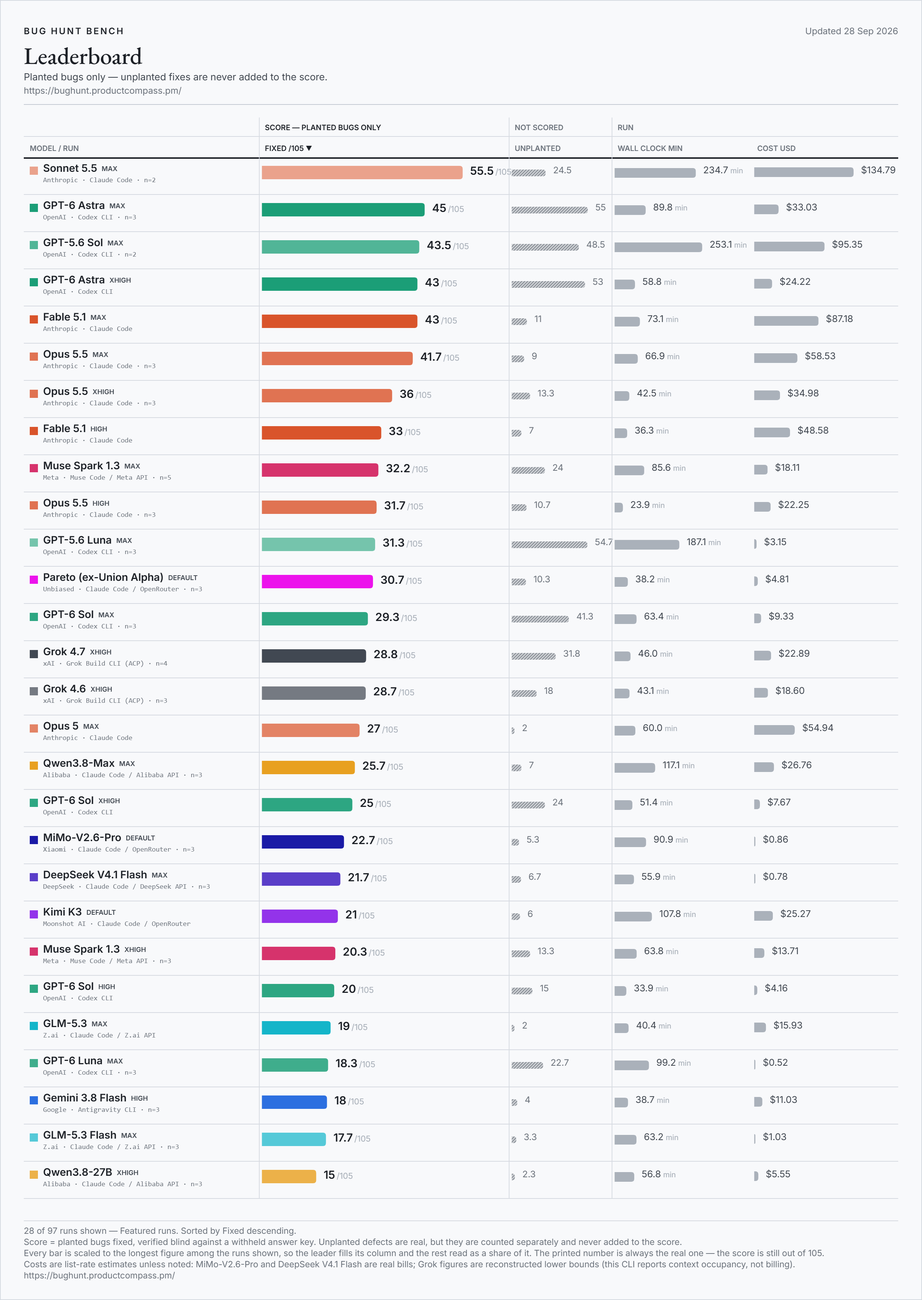
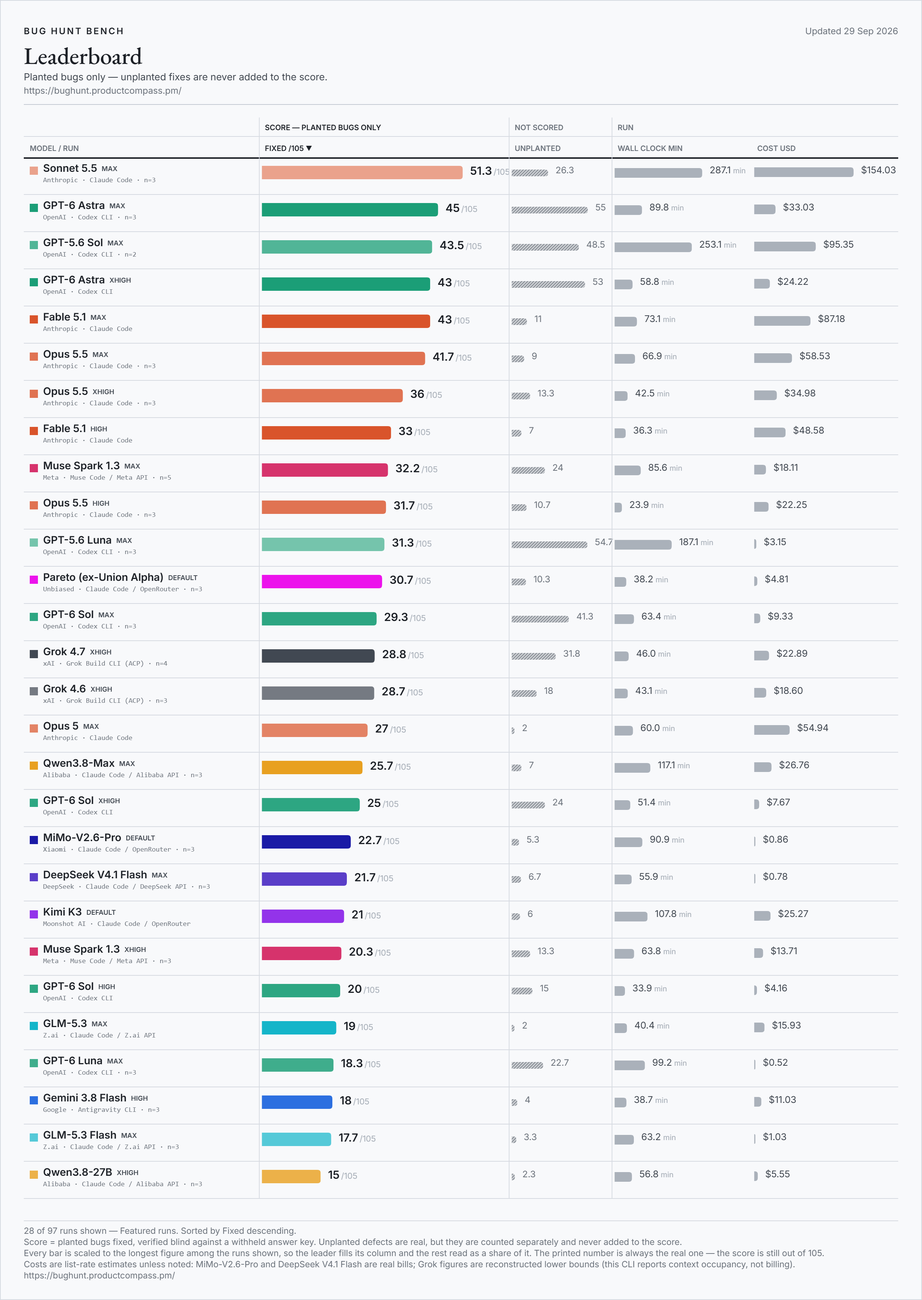
bug hunt bench: Sonnet 5.5 (max effort) - mean of 3 (51.3/105)

diff --git a/index.html b/index.html
@@ -22,14 +22,14 @@
 <meta property="og:title" content="Bug Hunt Bench — frontier coding models against real planted bugs">
 <meta property="og:description" content="A blind-graded benchmark of frontier coding models on real bugs planted in two production codebases. The score counts planted bugs only; extra fixes are tracked separately and never added.">
 <meta property="og:url" content="https://bughunt.productcompass.pm/">
-<meta property="og:image" content="https://bughunt.productcompass.pm/og-image.png?v=2026-09-28-c92c4c04">
+<meta property="og:image" content="https://bughunt.productcompass.pm/og-image.png?v=2026-09-29-27e06eb1">
 <meta property="og:image:width" content="1200">
 <meta property="og:image:height" content="630">
 <meta property="og:image:alt" content="Bug Hunt Bench leaderboard">
 <meta name="twitter:card" content="summary_large_image">
 <meta name="twitter:title" content="Bug Hunt Bench — frontier coding models against real planted bugs">
 <meta name="twitter:description" content="A blind-graded benchmark of frontier coding models on real bugs planted in two production codebases. The score counts planted bugs only.">
-<meta name="twitter:image" content="https://bughunt.productcompass.pm/og-image.png?v=2026-09-28-c92c4c04">
+<meta name="twitter:image" content="https://bughunt.productcompass.pm/og-image.png?v=2026-09-29-27e06eb1">
 <meta name="twitter:creator" content="@PawelHuryn">
 
 <link rel="icon" href="/assets/favicon.svg" type="image/svg+xml">

diff --git a/method.html b/method.html
@@ -20,14 +20,14 @@
 <meta property="og:title" content="Method, caveats and definitions — Bug Hunt Bench">
 <meta property="og:description" content="How Bug Hunt Bench is run and graded, what the board cannot tell you, and what every column on it means.">
 <meta property="og:url" content="https://bughunt.productcompass.pm/method">
-<meta property="og:image" content="https://bughunt.productcompass.pm/og-image.png?v=2026-09-28-c92c4c04">
+<meta property="og:image" content="https://bughunt.productcompass.pm/og-image.png?v=2026-09-29-27e06eb1">
 <meta property="og:image:width" content="1200">
 <meta property="og:image:height" content="630">
 <meta property="og:image:alt" content="Bug Hunt Bench leaderboard">
 <meta name="twitter:card" content="summary_large_image">
 <meta name="twitter:title" content="Method, caveats and definitions — Bug Hunt Bench">
 <meta name="twitter:description" content="How Bug Hunt Bench is run and graded, what the board cannot tell you, and what every column on it means.">
-<meta name="twitter:image" content="https://bughunt.productcompass.pm/og-image.png?v=2026-09-28-c92c4c04">
+<meta name="twitter:image" content="https://bughunt.productcompass.pm/og-image.png?v=2026-09-29-27e06eb1">
 <meta name="twitter:creator" content="@PawelHuryn">
 
 <link rel="icon" href="/assets/favicon.svg" type="image/svg+xml">

diff --git a/results/run-notes.md b/results/run-notes.md
@@ -2,15 +2,15 @@
 
 Every row on the board, with the note and caveat it carries. Generated from `data/benchmark.json` by `bench_golive.py` - do not edit by hand.
 
-Updated Sep 28, 2026 · 149 rows from 227 scored runs. Superseded rows are listed last.
+Updated Sep 29, 2026 · 150 rows from 230 scored runs. Superseded rows are listed last.
 
-## Sonnet 5.5 (max effort) - mean of 2
+## Sonnet 5.5 (max effort) - mean of 3
 
-**55.5 / 105** · repo 1 22.5/45 · repo 2 33/60 · 24.5 unplanted · 234.7 min · $134.79 · `max` · Claude Code · mean of 2 runs · 2026-09-28
+**51.3 / 105** · repo 1 22.7/45 · repo 2 28.7/60 · 26.3 unplanted · 287.1 min · $154.03 · `max` · Claude Code · mean of 3 runs · 2026-09-29
 
-**Caveat.** Two runs of an identical configuration scoring 57 and 54 of 105 - spread 3. Read the mean with that width, and note that two runs bound variance poorly - the third is still to come. Both Sonnet 5 rows here compacted mid-task on older CLI builds, so the gap against them is not a clean version comparison. Cost is a list-rate estimate at Sonnet 5.5's published rates; the harness priced this model on another model's table, so the check is on token counts, not on its dollar figure. The machine was idle for every leg.
+**Caveat.** Three runs of an identical configuration scoring 57, 54 and 43 of 105 - spread 14. Read the mean with that width. Both Sonnet 5 rows here compacted mid-task on older CLI builds, so the gap against them is not a clean version comparison. Cost is a list-rate estimate at Sonnet 5.5's published rates; the harness priced this model on another model's table, so the check is on token counts, not on its dollar figure. The machine was idle for every leg.
 
-Anthropic's Sonnet 5.5 at max effort through Claude Code on the first-party API, published as the MEAN OF TWO INDEPENDENT RUNS. Runs scored 57 and 54 of 105 (repo 1: 24, 21 - repo 2: 33, 33). Mean 55.5, range 3. *** THIS SUPERSEDES SONNET 5.5 (MAX EFFORT) (57 OF 105) *** *** THE REPLICATES ARE BYTE-IDENTICAL TO THE FIRST RUN *** same model string, effort, timeout, price table and blind judge; only the arm name differs, so the spread is run-to-run variance. For comparison the board currently publishes Sonnet 5 at max effort 9, Sonnet 5 at high effort 9, Opus 5.5 at max effort 41.7 (mean of 3) of 105. *** WALL AND COST *** walls 257.8, 211.7 minutes, mean 234.8; cost $154.05, $115.55, mean $134.80. *** GENUINE EXTRAS *** 28 and 21 across the runs, mean 24.5, never folded into the score. *** IT KEEPS WORKING AFTER IT WRITES ITS REPORT *** On repo 1 it took 915, 539 turns (the harness's own count); it first wrote its report 66, 58 minutes in and its last model call came at minute 196, 113 - 129, 55 minutes of further checking and revising after the report existed. For scale: Opus 5.5 at max took 159-201 turns there over three runs of 26-37 minutes; Sonnet 5 at max took 207, and every one of those runs wrote its report within 1 minute of its last call. On repo 2 it took 651, 554 turns (the harness's own count); it first wrote its report 57, 49 minutes in and its last model call came at minute 62, 98 - 5, 49 minutes of further checking and revising after the report existed. For scale: Opus 5.5 at max took 264-317 turns there over three runs of 34-39 minutes; Sonnet 5 at max took 204, and every one of those runs wrote its report within 1 minute of its last call. Its own repo-1 report says each fix carries a regression test that it confirmed fails with the fix reverted - a mutation check - which is where the extra turns went. *** SAME MACHINE AS THE OPUS 5.5 LADDER *** configured byte-identical to the opus55* arms except the model slug and the effort flag: Claude Code straight onto Anthropic's first-party API, no proxy, 1M window requested with the [1m] suffix, CLI-default autocompact, same prompt, same timeout class, same blind judge. The two Sonnet 5 rows on this board ran older Claude Code builds (2.1.218, 2.1.267) and compacted mid-task - 5 compactions across their 4 legs, peaks 284,197 to 295,210 tokens - so a gap against them mixes the model version with how much of each run's context survived, and is not a clean version delta. Effort is a first-party Claude Code tier (documented enum low|medium|high|xhigh|max, enforced: an invented tier is answered 'Unknown --effort value'), taken at face value like every other Claude row here. The harness stated init.model claude-sonnet-5-5[1m] on every leg - the [1m] suffix honoured, so this is a 1M-window run - on Claude Code 2.1.283. Peak context 1,003,561 tokens; 5 compactions across 4 legs. Autocompact ran at the CLI default. *** COST IS A LIST ESTIMATE *** token counts at Anthropic's published Sonnet 5.5 rates (as read 2026-09-28): $2 input, $10 output, $0.20 cache read, $4 cache write - the 1-hour rate, which is what this harness writes. The harness's own cost figure is NOT a cross-check on this model: Claude Code reported its cost basis for Sonnet 5.5 as 'unknown' and priced the run on Opus 5.5's table - its figure is exactly those tokens at Opus 5.5 rates, about a fifth higher than Sonnet 5.5's own. So the check here is on tokens: each leg's metered counts agree with the harness's own per-model counts within 3 per cent. Claude Code on a subscription exposes no invoice, hence `list`. *** RECEIPTS *** All legs exited 0 with a report written, run SEQUENTIALLY, one repo at a time. Judge: blind Codex gpt-5.5 - an OpenAI model scoring an Anthropic one, so neither the model itself nor a sibling of it. The repo 2 judge on run 1 returned an empty verdict set once and was re-run - the re-run is the scored result. The machine was otherwise idle for every leg, so the wall figures compare directly against other uncontended rows.
+Anthropic's Sonnet 5.5 at max effort through Claude Code on the first-party API, published as the MEAN OF THREE INDEPENDENT RUNS. Runs scored 57, 54 and 43 of 105 (repo 1: 24, 21, 23 - repo 2: 33, 33, 20). Mean 51.3, range 14. *** THIS SUPERSEDES SONNET 5.5 (MAX EFFORT) - MEAN OF 2 (55.5 OF 105) *** *** THE REPLICATES ARE BYTE-IDENTICAL TO THE FIRST RUN *** same model string, effort, timeout, price table and blind judge; only the arm name differs, so the spread is run-to-run variance. For comparison the board currently publishes Sonnet 5 at max effort 9, Sonnet 5 at high effort 9, Opus 5.5 at max effort 41.7 (mean of 3) of 105. *** WALL AND COST *** walls 257.8, 211.7, 392.0 minutes, mean 287.2; cost $154.05, $115.55, $192.52, mean $154.04. *** GENUINE EXTRAS *** 28, 21 and 30 across the runs, mean 26.3, never folded into the score. *** IT KEEPS WORKING AFTER IT WRITES ITS REPORT *** On repo 1 it took 915, 539, 1145 turns (the harness's own count); it first wrote its report 66, 58, 64 minutes in and its last model call came at minute 196, 113, 332 - 129, 55, 268 minutes of further checking and revising after the report existed. For scale: Opus 5.5 at max took 159-201 turns there over three runs of 26-37 minutes; Sonnet 5 at max took 207, and every one of those runs wrote its report within 1 minute of its last call. On repo 2 it took 651, 554, 688 turns (the harness's own count); it first wrote its report 57, 49, 56 minutes in and its last model call came at minute 62, 98, 60 - 5, 49, 4 minutes of further checking and revising after the report existed. For scale: Opus 5.5 at max took 264-317 turns there over three runs of 34-39 minutes; Sonnet 5 at max took 204, and every one of those runs wrote its report within 1 minute of its last call. Its own repo-1 report says each fix carries a regression test that it confirmed fails with the fix reverted - a mutation check - which is where the extra turns went. *** SAME MACHINE AS THE OPUS 5.5 LADDER *** configured byte-identical to the opus55* arms except the model slug and the effort flag: Claude Code straight onto Anthropic's first-party API, no proxy, 1M window requested with the [1m] suffix, CLI-default autocompact, same prompt, same timeout class, same blind judge. The two Sonnet 5 rows on this board ran older Claude Code builds (2.1.218, 2.1.267) and compacted mid-task - 5 compactions across their 4 legs, peaks 284,197 to 295,210 tokens - so a gap against them mixes the model version with how much of each run's context survived, and is not a clean version delta. Effort is a first-party Claude Code tier (documented enum low|medium|high|xhigh|max, enforced: an invented tier is answered 'Unknown --effort value'), taken at face value like every other Claude row here. The harness stated init.model claude-sonnet-5-5[1m] on every leg - the [1m] suffix honoured, so this is a 1M-window run - on Claude Code 2.1.283. Peak context 1,003,561 tokens; 8 compactions across 6 legs. Autocompact ran at the CLI default. *** COST IS A LIST ESTIMATE *** token counts at Anthropic's published Sonnet 5.5 rates (as read 2026-09-28): $2 input, $10 output, $0.20 cache read, $4 cache write - the 1-hour rate, which is what this harness writes. The harness's own cost figure is NOT a cross-check on this model: Claude Code reported its cost basis for Sonnet 5.5 as 'unknown' and priced the run on Opus 5.5's table - its figure is exactly those tokens at Opus 5.5 rates, about a fifth higher than Sonnet 5.5's own. So the check here is on tokens: each leg's metered counts agree with the harness's own per-model counts within 3 per cent. Claude Code on a subscription exposes no invoice, hence `list`. *** RECEIPTS *** All legs exited 0 with a report written, run SEQUENTIALLY, one repo at a time. Judge: blind Codex gpt-5.5 - an OpenAI model scoring an Anthropic one, so neither the model itself nor a sibling of it. The repo 2 judge on run 1 returned an empty verdict set once and was re-run - the re-run is the scored result. The machine was otherwise idle for every leg, so the wall figures compare directly against other uncontended rows.
 
 ## GPT-6 Astra (max effort) - mean of 3
 
@@ -663,6 +663,16 @@ THE ZERO SURVIVES REPLICATION. Runs scored 0, 0 and 0 of 105 (repo 1: 0, 0, 0 - 
 **Caveat.** ONE RUN, not a mean - this board has measured a 13-point spread between two runs of a single identical configuration, so treat this as one draw until the two replicates land. Both Sonnet 5 rows here compacted mid-task on older CLI builds, so the gap against them is not a clean version comparison. Cost is a list-rate estimate at Sonnet 5.5's published rates; the harness priced this model on another model's table, so the check is on token counts, not on its dollar figure. The machine was idle for every leg.
 
 Anthropic's Sonnet 5.5 at max effort through Claude Code on the first-party API, measured the evening it shipped. 57 of 105: 24 of 45 on repo 1 and 33 of 60 on repo 2, 28 genuine extras, 257.8 minutes, $154.05. ONE RUN so far; two replicates follow and will supersede this row. For comparison the board currently publishes Sonnet 5 at max effort 9, Sonnet 5 at high effort 9, Opus 5.5 at max effort 41.7 (mean of 3) of 105. *** IT KEEPS WORKING AFTER IT WRITES ITS REPORT *** On repo 1 it took 915 turns (the harness's own count); it first wrote its report 66 minutes in and its last model call came at minute 196 - 129 minutes of further checking and revising after the report existed. For scale: Opus 5.5 at max took 159-201 turns there over three runs of 26-37 minutes; Sonnet 5 at max took 207, and every one of those runs wrote its report within 1 minute of its last call. On repo 2 it took 651 turns (the harness's own count); it first wrote its report 57 minutes in and its last model call came at minute 62 - 5 minutes of further checking and revising after the report existed. For scale: Opus 5.5 at max took 264-317 turns there over three runs of 34-39 minutes; Sonnet 5 at max took 204, and every one of those runs wrote its report within 1 minute of its last call. Its own repo-1 report says each fix carries a regression test that it confirmed fails with the fix reverted - a mutation check - which is where the extra turns went. *** SAME MACHINE AS THE OPUS 5.5 LADDER *** configured byte-identical to the opus55* arms except the model slug and the effort flag: Claude Code straight onto Anthropic's first-party API, no proxy, 1M window requested with the [1m] suffix, CLI-default autocompact, same prompt, same timeout class, same blind judge. The two Sonnet 5 rows on this board ran older Claude Code builds (2.1.218, 2.1.267) and compacted mid-task - 5 compactions across their 4 legs, peaks 284,197 to 295,210 tokens - so a gap against them mixes the model version with how much of each run's context survived, and is not a clean version delta. Effort is a first-party Claude Code tier (documented enum low|medium|high|xhigh|max, enforced: an invented tier is answered 'Unknown --effort value'), taken at face value like every other Claude row here. The harness stated init.model claude-sonnet-5-5[1m] on every leg - the [1m] suffix honoured, so this is a 1M-window run - on Claude Code 2.1.283. Peak context 1,001,140 tokens; 3 compactions across 2 legs. Autocompact ran at the CLI default. *** COST IS A LIST ESTIMATE *** token counts at Anthropic's published Sonnet 5.5 rates (as read 2026-09-28): $2 input, $10 output, $0.20 cache read, $4 cache write - the 1-hour rate, which is what this harness writes. The harness's own cost figure is NOT a cross-check on this model: Claude Code reported its cost basis for Sonnet 5.5 as 'unknown' and priced the run on Opus 5.5's table - its figure is exactly those tokens at Opus 5.5 rates, about a fifth higher than Sonnet 5.5's own. So the check here is on tokens: each leg's metered counts agree with the harness's own per-model counts within 3 per cent. Claude Code on a subscription exposes no invoice, hence `list`. *** RECEIPTS *** All legs exited 0 with a report written, run SEQUENTIALLY, one repo at a time. Judge: blind Codex gpt-5.5 - an OpenAI model scoring an Anthropic one, so neither the model itself nor a sibling of it. The repo 2 judge returned an empty verdict set once and was re-run - the re-run is the scored result. The machine was otherwise idle for every leg, so the wall figures compare directly against other uncontended rows.
+
+## Sonnet 5.5 (max effort) - mean of 2
+
+**55.5 / 105** · repo 1 22.5/45 · repo 2 33/60 · 24.5 unplanted · 234.7 min · $134.79 · `max` · Claude Code · mean of 2 runs · 2026-09-28
+
+**Superseded.** Superseded 2026-09-29 by the mean of 3 (51.3 of 105). This row reported 55.5 of 105 as the mean of 2 runs. The replicates are byte-identical re-runs; across 3 the runs span 43 to 57. Nothing here is retracted - it is kept as the receipt for what the board showed before the extra run.
+
+**Caveat.** Two runs of an identical configuration scoring 57 and 54 of 105 - spread 3. Read the mean with that width, and note that two runs bound variance poorly - the third is still to come. Both Sonnet 5 rows here compacted mid-task on older CLI builds, so the gap against them is not a clean version comparison. Cost is a list-rate estimate at Sonnet 5.5's published rates; the harness priced this model on another model's table, so the check is on token counts, not on its dollar figure. The machine was idle for every leg.
+
+Anthropic's Sonnet 5.5 at max effort through Claude Code on the first-party API, published as the MEAN OF TWO INDEPENDENT RUNS. Runs scored 57 and 54 of 105 (repo 1: 24, 21 - repo 2: 33, 33). Mean 55.5, range 3. *** THIS SUPERSEDES SONNET 5.5 (MAX EFFORT) (57 OF 105) *** *** THE REPLICATES ARE BYTE-IDENTICAL TO THE FIRST RUN *** same model string, effort, timeout, price table and blind judge; only the arm name differs, so the spread is run-to-run variance. For comparison the board currently publishes Sonnet 5 at max effort 9, Sonnet 5 at high effort 9, Opus 5.5 at max effort 41.7 (mean of 3) of 105. *** WALL AND COST *** walls 257.8, 211.7 minutes, mean 234.8; cost $154.05, $115.55, mean $134.80. *** GENUINE EXTRAS *** 28 and 21 across the runs, mean 24.5, never folded into the score. *** IT KEEPS WORKING AFTER IT WRITES ITS REPORT *** On repo 1 it took 915, 539 turns (the harness's own count); it first wrote its report 66, 58 minutes in and its last model call came at minute 196, 113 - 129, 55 minutes of further checking and revising after the report existed. For scale: Opus 5.5 at max took 159-201 turns there over three runs of 26-37 minutes; Sonnet 5 at max took 207, and every one of those runs wrote its report within 1 minute of its last call. On repo 2 it took 651, 554 turns (the harness's own count); it first wrote its report 57, 49 minutes in and its last model call came at minute 62, 98 - 5, 49 minutes of further checking and revising after the report existed. For scale: Opus 5.5 at max took 264-317 turns there over three runs of 34-39 minutes; Sonnet 5 at max took 204, and every one of those runs wrote its report within 1 minute of its last call. Its own repo-1 report says each fix carries a regression test that it confirmed fails with the fix reverted - a mutation check - which is where the extra turns went. *** SAME MACHINE AS THE OPUS 5.5 LADDER *** configured byte-identical to the opus55* arms except the model slug and the effort flag: Claude Code straight onto Anthropic's first-party API, no proxy, 1M window requested with the [1m] suffix, CLI-default autocompact, same prompt, same timeout class, same blind judge. The two Sonnet 5 rows on this board ran older Claude Code builds (2.1.218, 2.1.267) and compacted mid-task - 5 compactions across their 4 legs, peaks 284,197 to 295,210 tokens - so a gap against them mixes the model version with how much of each run's context survived, and is not a clean version delta. Effort is a first-party Claude Code tier (documented enum low|medium|high|xhigh|max, enforced: an invented tier is answered 'Unknown --effort value'), taken at face value like every other Claude row here. The harness stated init.model claude-sonnet-5-5[1m] on every leg - the [1m] suffix honoured, so this is a 1M-window run - on Claude Code 2.1.283. Peak context 1,003,561 tokens; 5 compactions across 4 legs. Autocompact ran at the CLI default. *** COST IS A LIST ESTIMATE *** token counts at Anthropic's published Sonnet 5.5 rates (as read 2026-09-28): $2 input, $10 output, $0.20 cache read, $4 cache write - the 1-hour rate, which is what this harness writes. The harness's own cost figure is NOT a cross-check on this model: Claude Code reported its cost basis for Sonnet 5.5 as 'unknown' and priced the run on Opus 5.5's table - its figure is exactly those tokens at Opus 5.5 rates, about a fifth higher than Sonnet 5.5's own. So the check here is on tokens: each leg's metered counts agree with the harness's own per-model counts within 3 per cent. Claude Code on a subscription exposes no invoice, hence `list`. *** RECEIPTS *** All legs exited 0 with a report written, run SEQUENTIALLY, one repo at a time. Judge: blind Codex gpt-5.5 - an OpenAI model scoring an Anthropic one, so neither the model itself nor a sibling of it. The repo 2 judge on run 1 returned an empty verdict set once and was re-run - the re-run is the scored result. The machine was otherwise idle for every leg, so the wall figures compare directly against other uncontended rows.
 
 ## GPT-6 Astra (max effort)
 

diff --git a/README.md b/README.md
@@ -7,17 +7,17 @@
 If the numbers save you a benchmark run of your own, **star this repo** — that is what keeps the bench findable, and new models are added as they ship.
 
 <!-- leaderboard:start -->
-![Bug Hunt Bench leaderboard, the featured runs, updated Sep 28, 2026](assets/leaderboard.png?v=2026-09-28-a48e364b)
+![Bug Hunt Bench leaderboard, the featured runs, updated Sep 29, 2026](assets/leaderboard.png?v=2026-09-29-a48e364b)
 
-**Updated Sep 28, 2026 · 149 rows from 227 scored runs · 39 models · 29 of 105 bugs have never been fixed by any model.**
+**Updated Sep 29, 2026 · 150 rows from 230 scored runs · 39 models · 29 of 105 bugs have never been fixed by any model.**
 
-**Current leader:** Sonnet 5.5 at `max` effort — **55.5 / 105** (22.5/45 on repo 1, 33/60 on repo 2).
+**Current leader:** Sonnet 5.5 at `max` effort — **51.3 / 105** (22.7/45 on repo 1, 28.7/60 on repo 2).
 
-**Best per lab:** Anthropic: Sonnet 5.5 (`max`) 55.5 · OpenAI: GPT-6 Astra (`max`) 45 · Meta: Muse Spark 1.3 (`max`) 32.2 · Unbiased: Pareto (ex-Union Alpha) (`default`) 30.7 · xAI: Grok 4.7 (`xhigh`) 28.8 · Alibaba: Qwen3.8-Flash (`max`) 26 · Xiaomi: MiMo-V2.6-Flash (`default`) 23.3 · Google: Gemini 3.7 Flash (`high`) 22 · DeepSeek: DeepSeek V4.1 Flash (`max`) 21.7 · Moonshot AI: Kimi K3 (`default`) 21 · Z.ai: GLM-5.3 (`max`) 19 · Tencent: Hy4 Preview (`default`) 18
+**Best per lab:** Anthropic: Sonnet 5.5 (`max`) 51.3 · OpenAI: GPT-6 Astra (`max`) 45 · Meta: Muse Spark 1.3 (`max`) 32.2 · Unbiased: Pareto (ex-Union Alpha) (`default`) 30.7 · xAI: Grok 4.7 (`xhigh`) 28.8 · Alibaba: Qwen3.8-Flash (`max`) 26 · Xiaomi: MiMo-V2.6-Flash (`default`) 23.3 · Google: Gemini 3.7 Flash (`high`) 22 · DeepSeek: DeepSeek V4.1 Flash (`max`) 21.7 · Moonshot AI: Kimi K3 (`default`) 21 · Z.ai: GLM-5.3 (`max`) 19 · Tencent: Hy4 Preview (`default`) 18
 
 | # | Model | Harness | Effort | Runs | Fixed /105 | Repo 1 /45 | Repo 2 /60 | Extras | Wall | Cost | Date |
 |--:|---|---|---|--:|--:|--:|--:|--:|--:|--:|---|
-| 1 | Sonnet 5.5 | Claude Code | max | 2 | **55.5** | 22.5 | 33 | 24.5 | 235 min | $134.79 | 2026-09-28 |
+| 1 | Sonnet 5.5 | Claude Code | max | 3 | **51.3** | 22.7 | 28.7 | 26.3 | 287 min | $154.03 | 2026-09-29 |
 | 2 | GPT-6 Astra | Codex CLI | max | 3 | **45** | 22 | 23 | 55 | 90 min | $33.03 | 2026-09-14 |
 | 3 | GPT-5.6 Sol | Codex CLI | max | 2 | **43.5** | 19 | 24.5 | 48.5 | 253 min | $95.35 | 2026-09-16 |
 | 4 | GPT-6 Astra | Codex CLI | xhigh | 1 | **43** | 23 | 20 | 53 | 59 min | $24.22 | 2026-09-04 |
@@ -120,7 +120,7 @@ If the numbers save you a benchmark run of your own, **star this repo** — that
 Extras are real, unplanted defects a model fixed on the way; they are counted and never added to the score. Costs are token estimates at published list rates unless tagged **bill** (an actual invoice or credits delta) or **floor** (a reconstructed lower bound). `default` effort means the serving path had no working effort dial; *ran lower* marks a run whose CLI quietly replaced the requested tier. Wall clock is repo 1 plus repo 2 agent time, dependency install excluded.
 Every row's full note, caveat and supersession history is in [results/run-notes.md](https://github.com/phuryn/bug-hunt-bench/blob/main/results/run-notes.md); the runs behind each one are in the metrics CSVs.
 
-52 superseded re-runs stay in the CSVs and on the [live board](https://bughunt.productcompass.pm/?preset=all) but are left off this table.
+53 superseded re-runs stay in the CSVs and on the [live board](https://bughunt.productcompass.pm/?preset=all) but are left off this table.
 <!-- leaderboard:end -->
 
 ## What Bug Hunt Bench is

diff --git a/results/waves.md b/results/waves.md
@@ -3772,6 +3772,9 @@ Anthropic's Sonnet 5.5 went on the board the evening it shipped, through Claude 
 | Sonnet 5.5 (high effort) | 1 | **32** / 105 | 15 / 45 | 17 / 60 | 12 | 24.5 min | $16.73 |
 | Sonnet 5.5 (medium effort) | 1 | **18** / 105 | 8 / 45 | 10 / 60 | 8 | 11.9 min | $8.39 |
 | Sonnet 5.5 (low effort) | 1 | **20** / 105 | 7 / 45 | 13 / 60 | 5 | 7.4 min | $5.75 |
+| Sonnet 5.5 (max effort) - mean of 3 | mean of 3 | **51.3** / 105 | 22.7 / 45 | 28.7 / 60 | 26.3 | 287.2 min | $154.04 |
+
+From Sep 29 every tier is taken to three runs. Each mean of 3 lands in the table above when its third run is judged, and supersedes the row before it - the single run, or at max the mean of 2.
 
 ## A correction to the coverage view — 29 rows showed another run's bug list (Sep 29)
 
